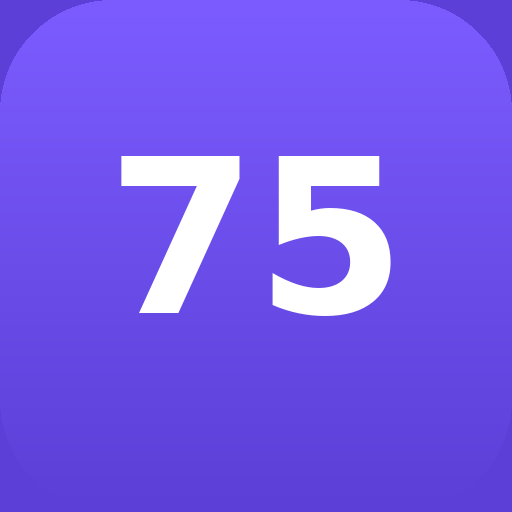
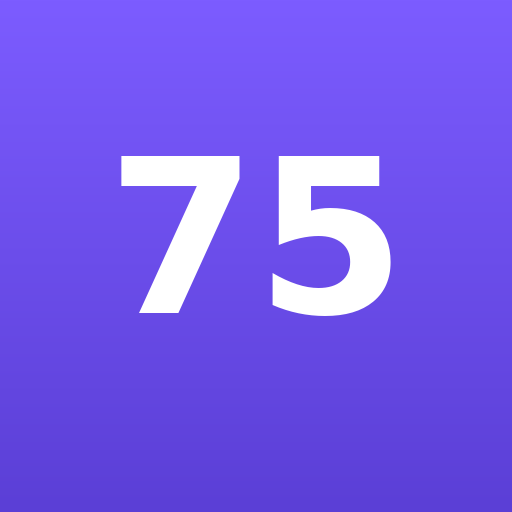
Add files via upload

Changed region(s): [[0.8125, 0.0, 1.0, 0.1875], [0.0, 0.0, 0.1875, 0.1875]]

diff --git a/index.html b/index.html
@@ -26,6 +26,7 @@
     background:var(--bg);
     color:var(--ink);
     padding-bottom:60px;
+    overflow-x:hidden;
   }
   header{
     background:linear-gradient(135deg,#7c5cff,#5b3fd6);
@@ -386,8 +387,8 @@
     align-items:center;
     margin-bottom:6px;
   }
-  .exercise-row input.ex-name{flex:1.4;}
-  .exercise-row input.ex-detail{flex:1;}
+  .exercise-row input.ex-name{flex:1.4; min-width:0;}
+  .exercise-row input.ex-detail{flex:1; min-width:0;}
   .exercise-row input{
     border:1px solid var(--line);
     background:var(--bg);
@@ -395,6 +396,8 @@
     padding:7px 9px;
     font-size:12.5px;
     font-family:inherit;
+    box-sizing:border-box;
+    width:100%;
   }
 
   /* Reading */
@@ -450,7 +453,7 @@
     font-family:inherit;
   }
   .log-form input.pages-input{width:70px;}
-  .log-form input.note-input{flex:1;}
+  .log-form input.note-input{flex:1; min-width:0;}
   .log-form button{
     background:var(--accent);
     color:white;
@@ -559,6 +562,7 @@
   .grocery-add-row{display:flex;gap:8px;margin-top:10px;}
   .grocery-add-row input{
     flex:1;
+    min-width:0;
     border:1px solid var(--line);
     border-radius:8px;
     padding:8px 10px;
@@ -641,7 +645,7 @@
     font-family:inherit;
   }
   .pm-numbers{display:flex;gap:6px;margin-bottom:6px;}
-  .pm-numbers .pm-field{flex:1;}
+  .pm-numbers .pm-field{flex:1; min-width:0;}
   .pm-numbers label{font-size:9.5px;color:var(--sub);display:block;margin-bottom:2px;}
   .pm-numbers input{
     width:100%;
@@ -752,7 +756,7 @@
     font-family:inherit;
   }
   .create-form .cf-row{display:flex;gap:8px;}
-  .create-form .cf-row > div{flex:1;}
+  .create-form .cf-row > div{flex:1; min-width:0;}
   .create-form .tag-picker{display:flex;gap:6px;flex-wrap:wrap;margin-top:4px;}
   .create-form button.save-btn{
     width:100%;